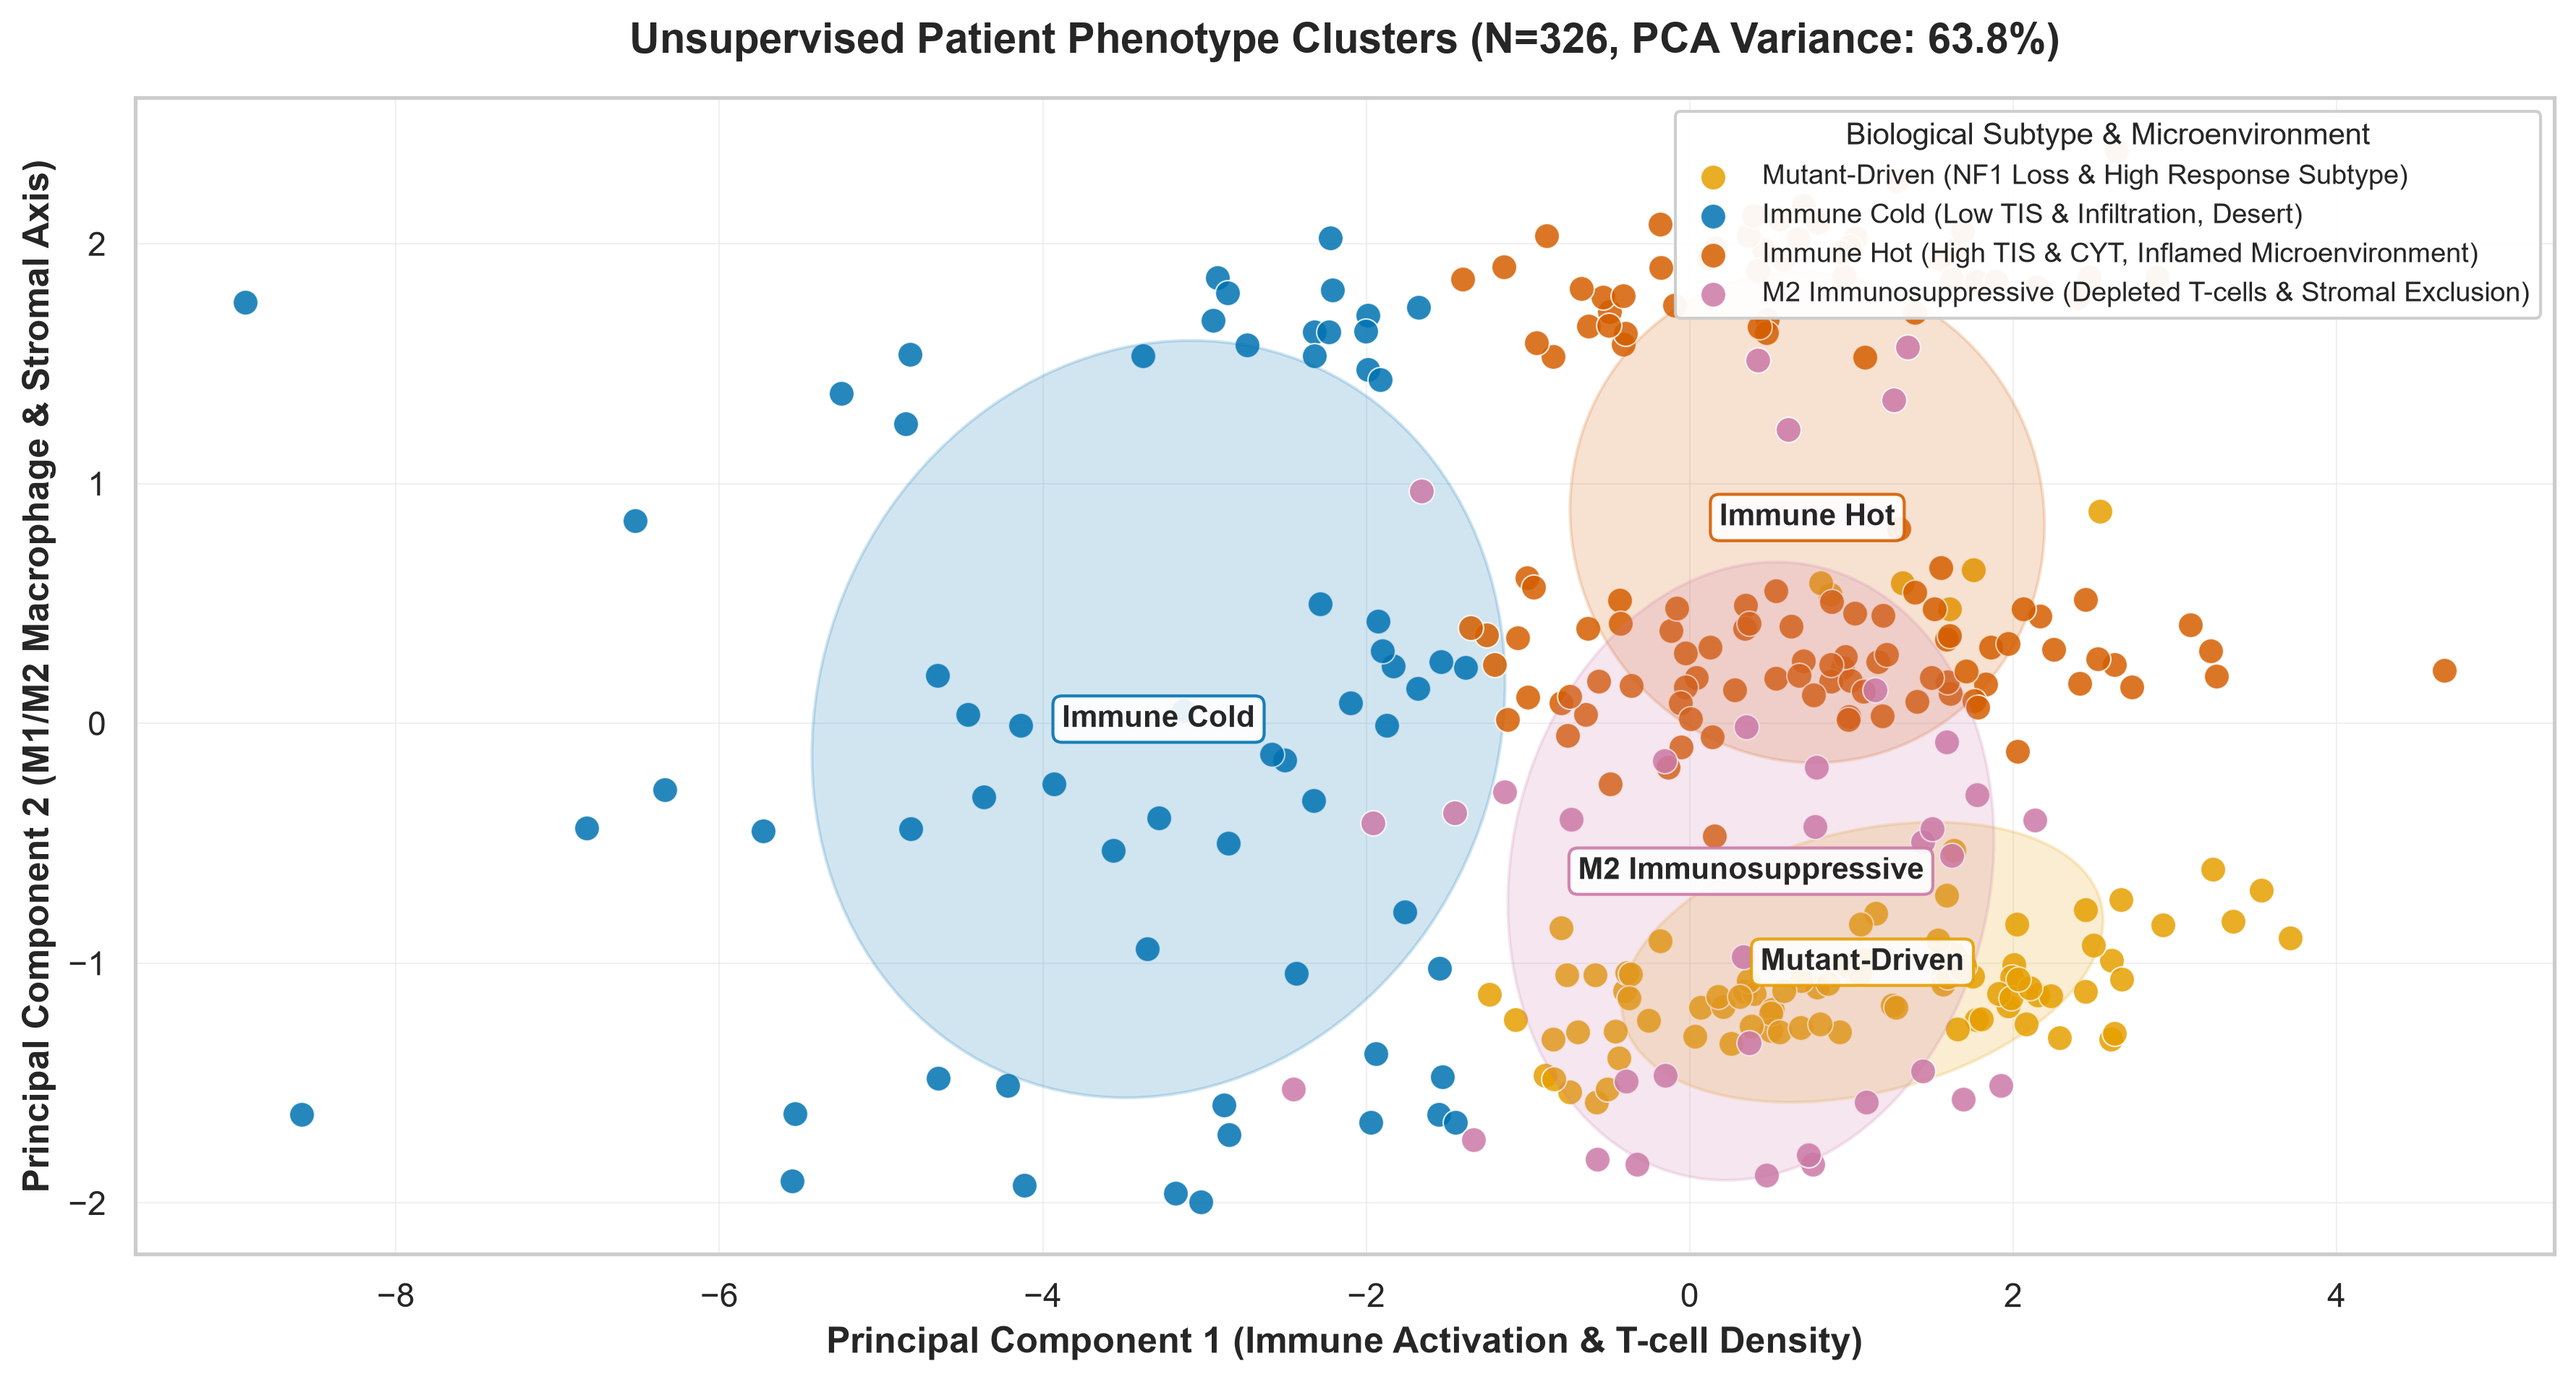
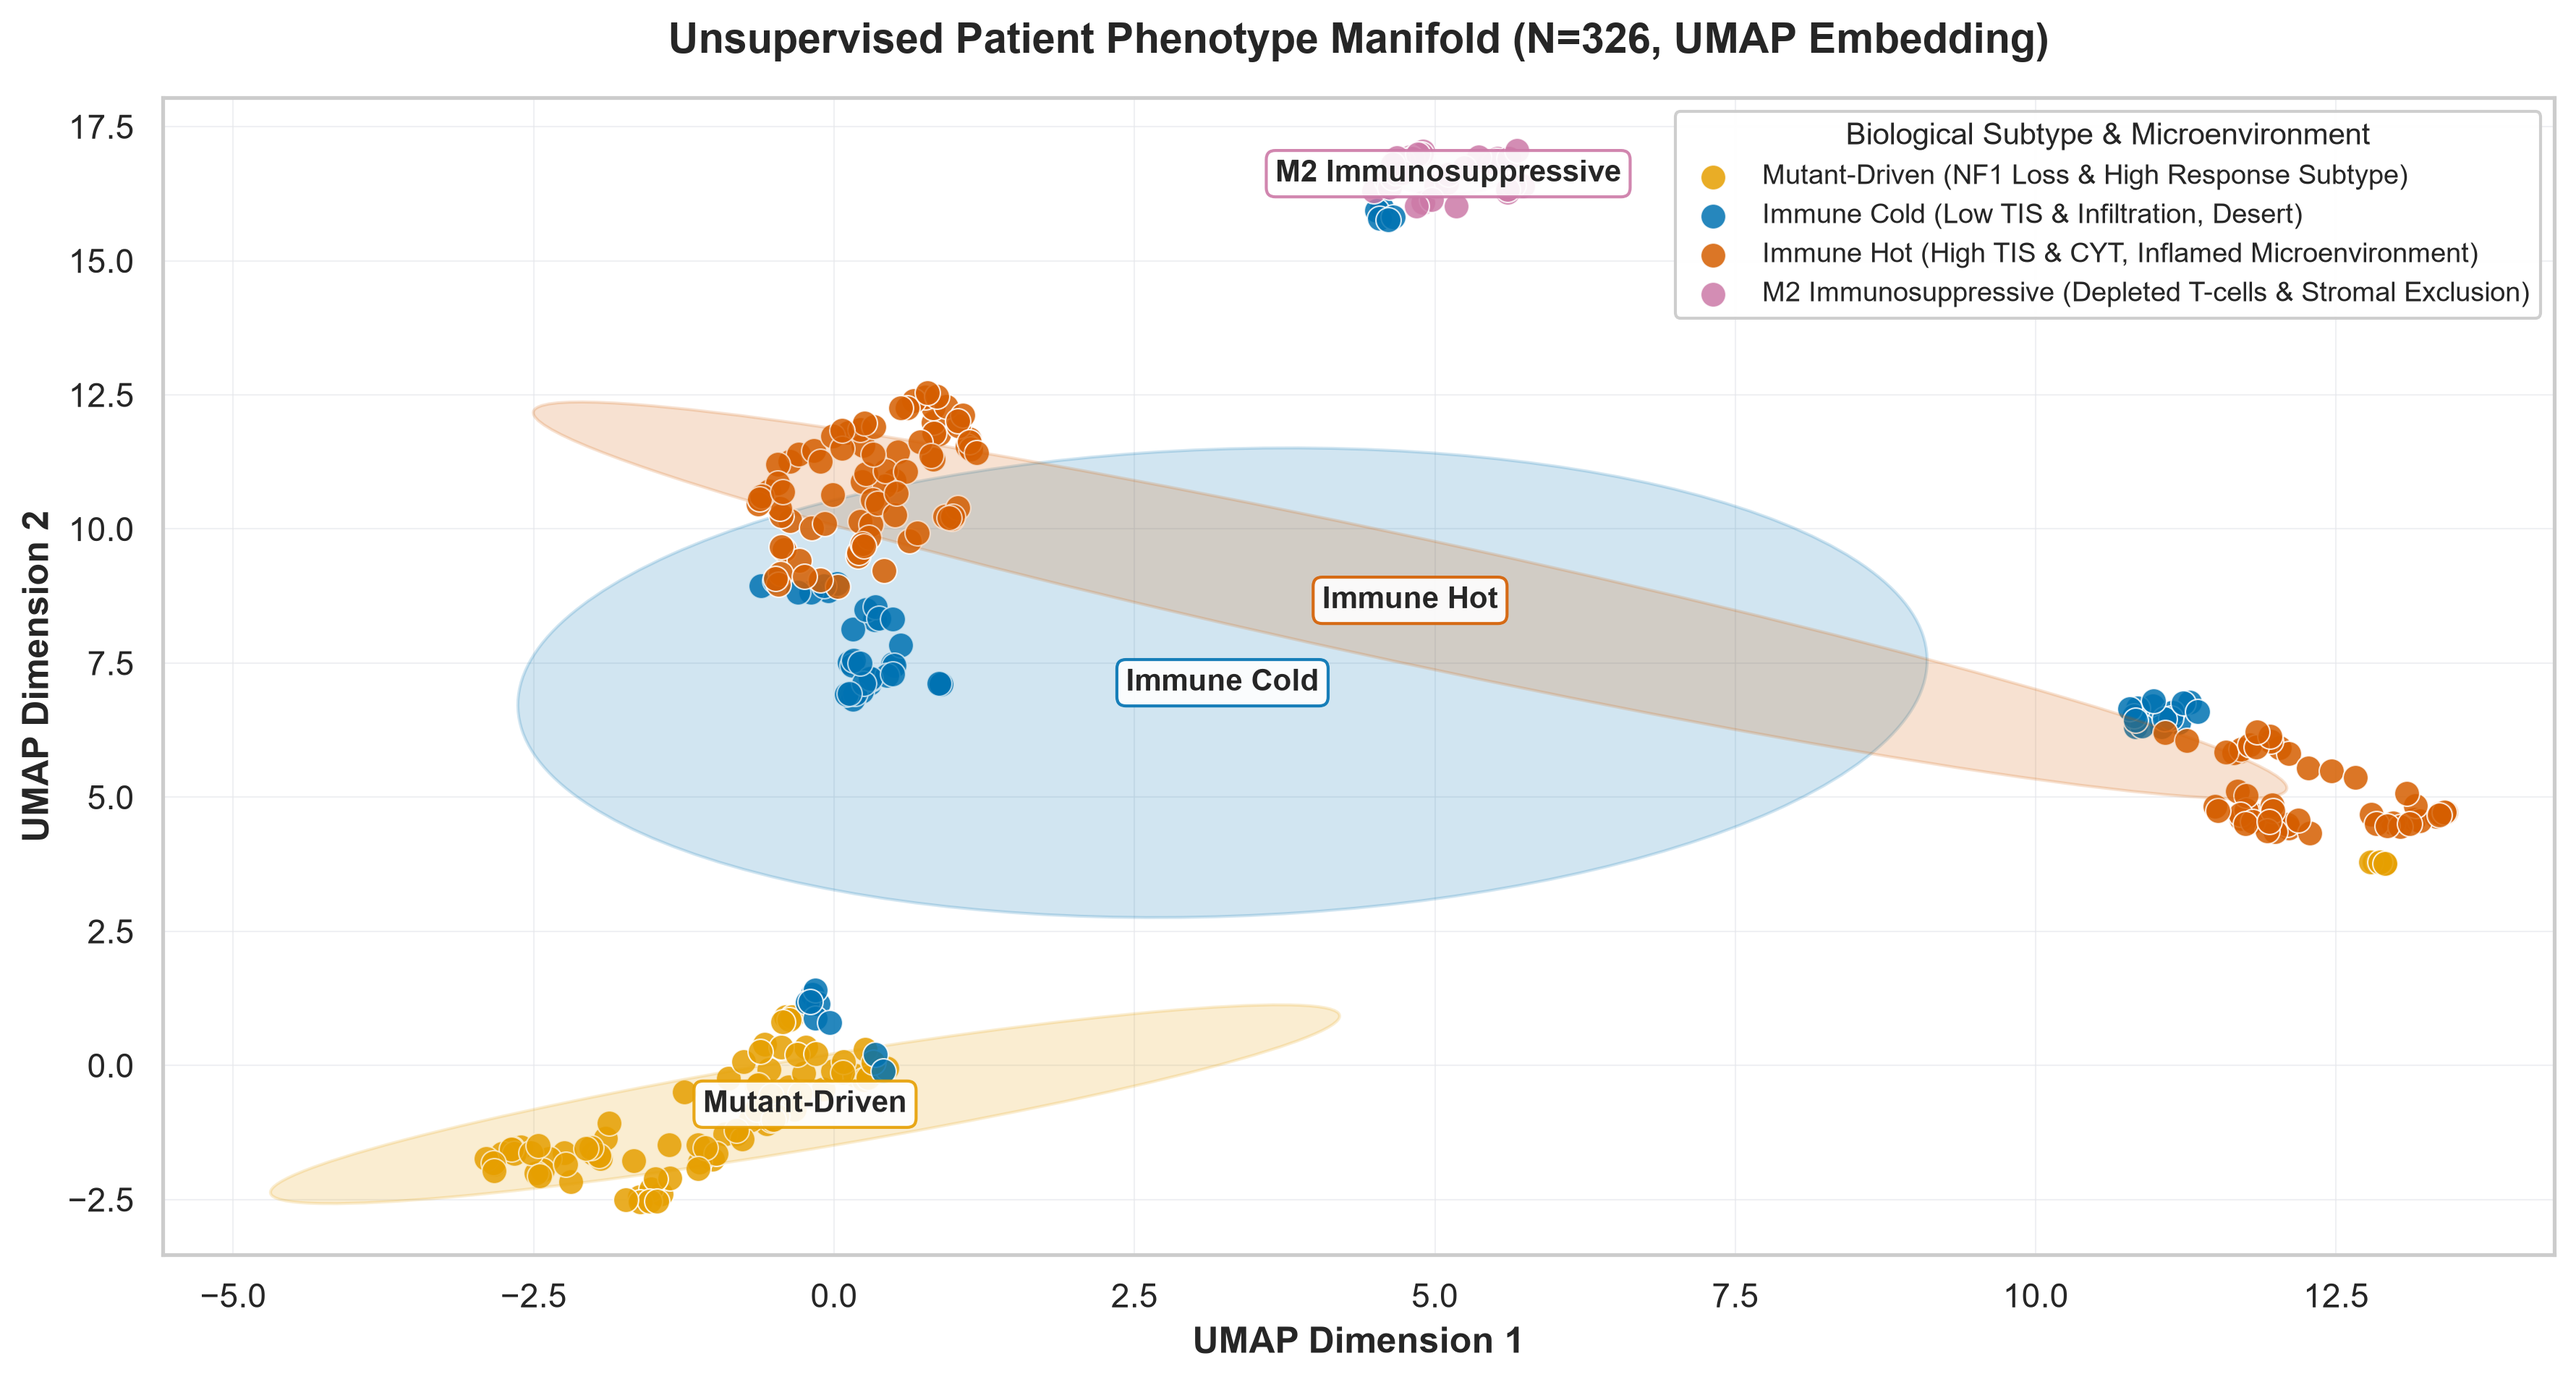
feat(q5): support both 2D PCA and non-linear UMAP cluster projections in report and pipeline
- Updated plot_2d_cluster_projection in src/clustering.py to support method='pca' and method='umap'
- Updated 03_cluster_patients.py to generate both pca_clusters.png and umap_clusters.png
- Embedded both PCA and UMAP figure sections in reports/q5_patient_stratification_report.md

diff --git a/q5-patient-stratification/scripts/generate_q5_report.py b/q5-patient-stratification/scripts/generate_q5_report.py
@@ -62,7 +62,9 @@ PHASE2_VOLCANO_PATH = SUBPROJECT_ROOT / "plots" / "feature_analysis" / "biomarke
 PHASE2_ROC_PATH = SUBPROJECT_ROOT / "plots" / "feature_analysis" / "youden_roc_curves.png"
 PHASE2_INTERACTION_PATH = SUBPROJECT_ROOT / "plots" / "feature_analysis" / "genomic_interaction_tis_braf.png"
 PHASE2_MATRIX_PATH = SUBPROJECT_ROOT / "plots" / "feature_analysis" / "genomic_immune_interaction_matrix.png"
-PHASE3_CLUSTER_PLOT_PATH = SUBPROJECT_ROOT / "plots" / "clustering" / "umap_clusters.png"
+PHASE3_PCA_PLOT_PATH = SUBPROJECT_ROOT / "plots" / "clustering" / "pca_clusters.png"
+PHASE3_UMAP_PLOT_PATH = SUBPROJECT_ROOT / "plots" / "clustering" / "umap_clusters.png"
+PHASE3_CLUSTER_PLOT_PATH = PHASE3_PCA_PLOT_PATH
 PHASE4_ODE_PLOT_PATH = SUBPROJECT_ROOT / "plots" / "phenotypes" / "ode_trajectories.png"
 
 # Q3 ODE Plot Paths
@@ -304,16 +306,26 @@ def main() -> None:
         doc_sections.append("### Unsupervised Phenotype Cluster Summary\n")
         doc_sections.append(format_markdown_table(pd.DataFrame(cluster_summary)) + "\n")
 
-    if PHASE3_CLUSTER_PLOT_PATH.exists():
-        rel_img = rel_path(PHASE3_CLUSTER_PLOT_PATH)
-        doc_sections.append("### Unsupervised Phenotype Cluster Projection\n")
-        doc_sections.append(f"![Unsupervised Patient Phenotype Clusters]({rel_img})\n")
+    if PHASE3_PCA_PLOT_PATH.exists():
+        rel_img = rel_path(PHASE3_PCA_PLOT_PATH)
+        doc_sections.append("### Unsupervised Phenotype Cluster Projection (2D PCA)\n")
+        doc_sections.append(f"![Unsupervised Patient Phenotype Clusters PCA]({rel_img})\n")
         doc_sections.append(
             "> [!INFO] Figure Interpretation: 2D Principal Component Cluster Projection\n"
             "> - **What this plot shows**: 2D Principal Component Projection of $N = 326$ patients color-coded by their multi-modal K-Means phenotype cluster ($K=4$). Shaded confidence ellipses mark cluster boundaries.\n"
             "> - **Axis 1 (Horizontal)**: Principal Component 1 captures immune activation and lymphocytic T-cell density (separating Inflamed Hot vs Desert Cold tumours).\n"
             "> - **Axis 2 (Vertical)**: Principal Component 2 captures macrophage polarisation (M1/M2 ratio) and stromal CAF exclusion.\n"
             "> - **Clinical Value**: Discovers discrete patient subgroups with distinct treatment response profiles without relying on biased outcome labels.\n"
+        )
+
+    if PHASE3_UMAP_PLOT_PATH.exists():
+        rel_img_umap = rel_path(PHASE3_UMAP_PLOT_PATH)
+        doc_sections.append("### Unsupervised Phenotype Manifold (UMAP Projection)\n")
+        doc_sections.append(f"![Unsupervised Patient Phenotype Clusters UMAP]({rel_img_umap})\n")
+        doc_sections.append(
+            "> [!INFO] Figure Interpretation: Non-Linear UMAP Cluster Manifold\n"
+            "> - **What this plot shows**: 2D UMAP non-linear manifold projection of the 38-feature patient space ($N = 326$).\n"
+            "> - **Non-Linear Topology**: Preserves local patient neighborhood structure and non-linear biomarker interactions across high-dimensional feature spaces.\n"
         )
 
     # Dynamic plain-language takeaways

diff --git a/q5-patient-stratification/src/clustering.py b/q5-patient-stratification/src/clustering.py
@@ -74,14 +74,24 @@ def plot_2d_cluster_projection(
     X_scaled: np.ndarray,
     save_path: Path,
     cluster_names: Dict[int, str] = None,
+    method: str = "pca",
 ) -> None:
-    """Generate publication-ready 2D cluster projection plot with clear cluster separation and expanded biological legend.
-
-    Uses PCA 2D embedding to project patients into visually distinct cluster regions.
-    Colors imported from PHENOTYPE_PALETTE in src.styles (Crimson Red for Immune Hot, Blue for Immune Cold).
-    """
-    pca = PCA(n_components=2, random_state=42)
-    coords = pca.fit_transform(X_scaled)
+    """Generate publication-ready 2D cluster projection plot (PCA or UMAP)."""
+    method_lower = method.lower()
+    if method_lower == "umap":
+        import umap
+        reducer = umap.UMAP(n_components=2, random_state=42, n_neighbors=15, min_dist=0.1)
+        coords = reducer.fit_transform(X_scaled)
+        xlabel = "UMAP Dimension 1"
+        ylabel = "UMAP Dimension 2"
+        title_str = f"Unsupervised Patient Phenotype Manifold (N={len(df_clean)}, UMAP Embedding)"
+    else:
+        pca = PCA(n_components=2, random_state=42)
+        coords = pca.fit_transform(X_scaled)
+        var_explained = np.sum(pca.explained_variance_ratio_) * 100
+        xlabel = "Principal Component 1 (Immune Activation & T-cell Density)"
+        ylabel = "Principal Component 2 (M1/M2 Macrophage & Stromal Axis)"
+        title_str = f"Unsupervised Patient Phenotype Clusters (N={len(df_clean)}, PCA Variance: {var_explained:.1f}%)"
 
     df_plot = df_clean.copy()
     df_plot["Dim1"] = coords[:, 0]
@@ -140,18 +150,10 @@ def plot_2d_cluster_projection(
                 bbox=dict(boxstyle="round,pad=0.3", facecolor="white", edgecolor=c_color, alpha=0.9),
             )
 
-    n_patients = len(df_plot)
-    var_explained = np.sum(pca.explained_variance_ratio_) * 100
-    ax.set_title(
-        f"Unsupervised Patient Phenotype Clusters (N={n_patients}, PCA Variance: {var_explained:.1f}%)",
-        fontsize=14,
-        fontweight="bold",
-        pad=15,
-    )
-    ax.set_xlabel("Principal Component 1 (Immune Activation & T-cell Density)", fontsize=12, fontweight="bold")
-    ax.set_ylabel("Principal Component 2 (M1/M2 Macrophage & Stromal Axis)", fontsize=12, fontweight="bold")
+    ax.set_title(title_str, fontsize=14, fontweight="bold", pad=15)
+    ax.set_xlabel(xlabel, fontsize=12, fontweight="bold")
+    ax.set_ylabel(ylabel, fontsize=12, fontweight="bold")
 
-    # Legend with expanded biological descriptions
     ax.legend(
         title="Biological Subtype & Microenvironment",
         loc="upper right",
@@ -167,4 +169,4 @@ def plot_2d_cluster_projection(
     save_path.parent.mkdir(parents=True, exist_ok=True)
     plt.savefig(save_path, dpi=300, bbox_inches="tight")
     plt.close()
-    print(f"Saved 2D cluster projection plot to {save_path}")
+    print(f"Saved {method.upper()} 2D cluster projection plot to {save_path}")

diff --git a/q5-patient-stratification/scripts/03_cluster_patients.py b/q5-patient-stratification/scripts/03_cluster_patients.py
@@ -90,14 +90,17 @@ def main() -> None:
             pass
     df_clean.to_csv(out_clusters, index=False)
 
-    # 4. Generate 300 DPI 2D Cluster Projection Figure
-    plot_file = SUBPROJECT_ROOT / "plots" / "clustering" / "umap_clusters.png"
-    plot_2d_cluster_projection(df_clean, labels, X_scaled, plot_file, PHENOTYPE_NAMES)
+    # 4. Generate 300 DPI 2D Cluster Projection Figures (both PCA and UMAP)
+    pca_plot_file = SUBPROJECT_ROOT / "plots" / "clustering" / "pca_clusters.png"
+    umap_plot_file = SUBPROJECT_ROOT / "plots" / "clustering" / "umap_clusters.png"
+    plot_2d_cluster_projection(df_clean, labels, X_scaled, pca_plot_file, PHENOTYPE_NAMES, method="pca")
+    plot_2d_cluster_projection(df_clean, labels, X_scaled, umap_plot_file, PHENOTYPE_NAMES, method="umap")
 
     print("=" * 80)
     print("PATIENT STRATIFICATION COMPLETE")
     print(f"Output Clusters File: {rel_path(out_clusters)}")
-    print(f"Output Cluster Plot:  {rel_path(plot_file)}")
+    print(f"Output PCA Plot:      {rel_path(pca_plot_file)}")
+    print(f"Output UMAP Plot:     {rel_path(umap_plot_file)}")
     print(f"Total Stratified Patients: {len(df_clean)}")
     for cid, name in PHENOTYPE_NAMES.items():
         cnt = np.sum(labels == cid)

diff --git a/reports/q5_patient_stratification_report.md b/reports/q5_patient_stratification_report.md
@@ -9,12 +9,12 @@ tags:
   - patient-stratification
   - melanoma
   - immunotherapy
-created: 2026-07-29 12:17
+created: 2026-07-29 12:25
 cssclasses:
   - table-small
 obsidianEditingMode: preview
 obsidianUIMode: source
-updated: 2026-07-29 12:17
+updated: 2026-07-29 12:25
 ---
 
 # Q5: Biomarker-Guided Patient Stratification Report (N = 326)
@@ -142,15 +142,23 @@ Phase 2 evaluates biomarker discriminative power across $N = 326$ patients:
 | Cluster 2    | `Immune Hot (High TIS & CYT, Inflamed Microenvironment)`      |                 133 | 40.8%          | **41.8%**       |
 | Cluster 3    | `M2 Immunosuppressive (Depleted T-cells & Stromal Exclusion)` |                  35 | 10.7%          | **61.5%**       |
 
-### Unsupervised Phenotype Cluster Projection
+### Unsupervised Phenotype Cluster Projection (2D PCA)
 
-![Unsupervised Patient Phenotype Clusters](q5-patient-stratification/plots/clustering/umap_clusters.png)
+![Unsupervised Patient Phenotype Clusters PCA](q5-patient-stratification/plots/clustering/pca_clusters.png)
 
 > [!INFO] Figure Interpretation: 2D Principal Component Cluster Projection
 > - **What this plot shows**: 2D Principal Component Projection of $N = 326$ patients color-coded by their multi-modal K-Means phenotype cluster ($K=4$). Shaded confidence ellipses mark cluster boundaries.
 > - **Axis 1 (Horizontal)**: Principal Component 1 captures immune activation and lymphocytic T-cell density (separating Inflamed Hot vs Desert Cold tumours).
 > - **Axis 2 (Vertical)**: Principal Component 2 captures macrophage polarisation (M1/M2 ratio) and stromal CAF exclusion.
 > - **Clinical Value**: Discovers discrete patient subgroups with distinct treatment response profiles without relying on biased outcome labels.
+
+### Unsupervised Phenotype Manifold (UMAP Projection)
+
+![Unsupervised Patient Phenotype Clusters UMAP](q5-patient-stratification/plots/clustering/umap_clusters.png)
+
+> [!INFO] Figure Interpretation: Non-Linear UMAP Cluster Manifold
+> - **What this plot shows**: 2D UMAP non-linear manifold projection of the 38-feature patient space ($N = 326$).
+> - **Non-Linear Topology**: Preserves local patient neighborhood structure and non-linear biomarker interactions across high-dimensional feature spaces.
 
 ### Key Takeaways
 - **Distinct Patient Groups**: K-Means clustering splits the $N = 326$ cohort into four clear biological subgroups with response rates ranging from **35.2% to 61.5%**.
